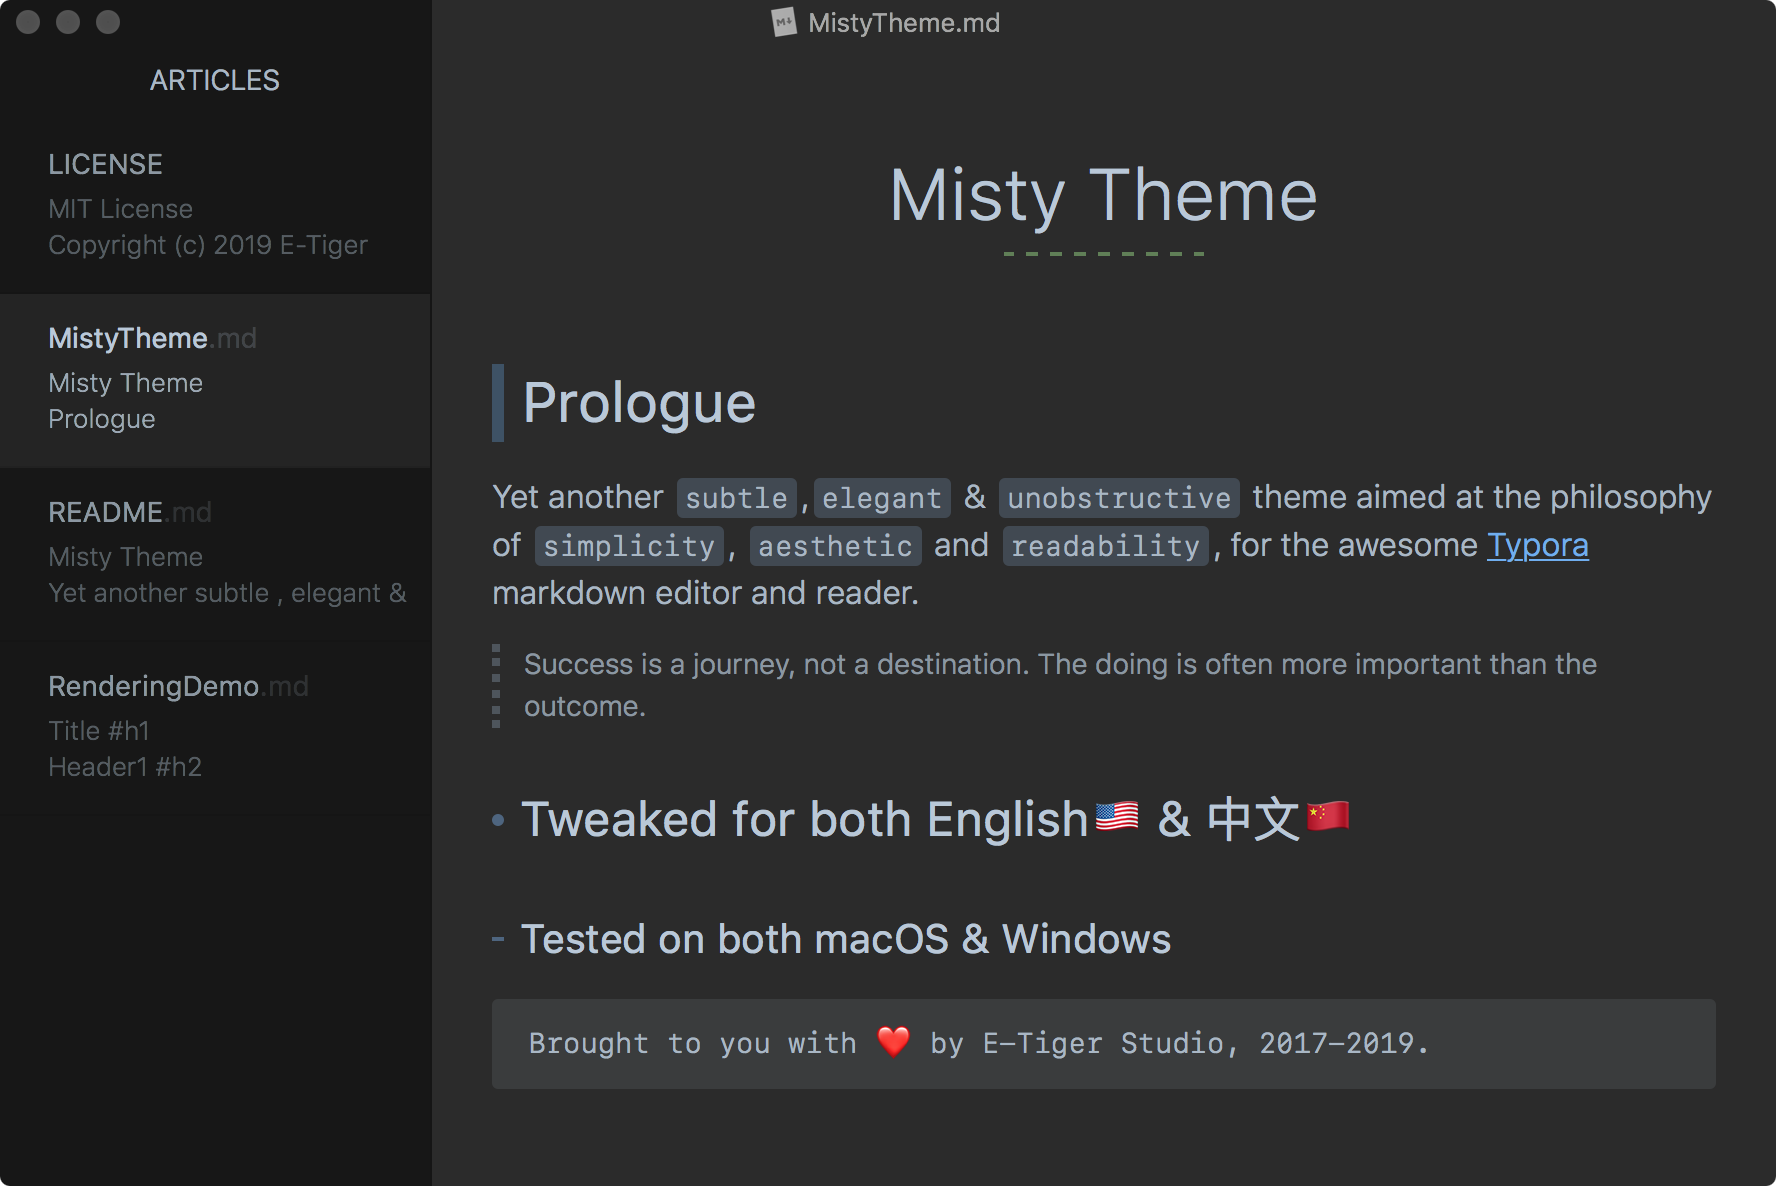
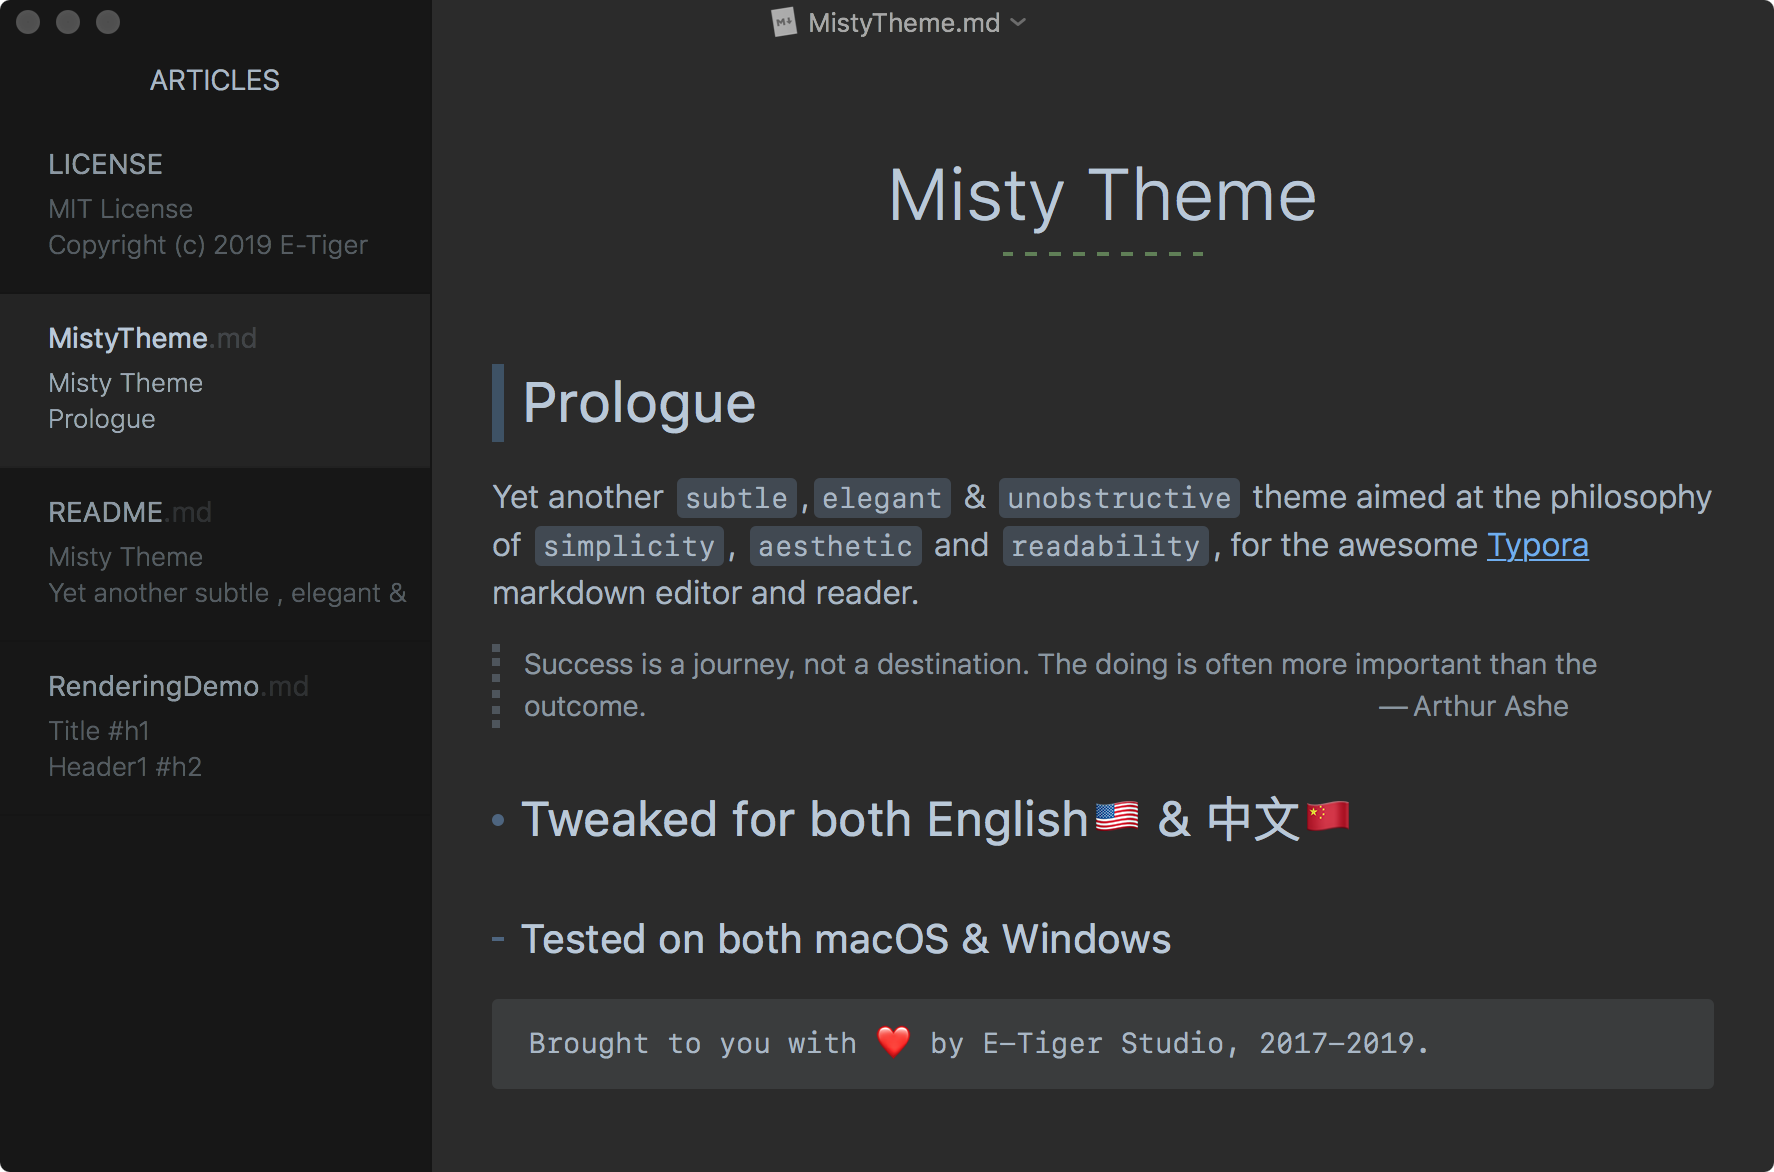
chore: add attribution to the quote of Arthur Ashe.

diff --git a/README.md b/README.md
@@ -11,13 +11,13 @@ Ships with **Light** 🌞 & **Dark** 🌑 color schemes. [Download](https://gith
 Introduction text in Light:
 
 <p align="center">
-  <img src="https://github.com/etigerstudio/typora-misty-theme/raw/master/misty-light-demo.png" alt="misty-light-demo" width="888"/>
+  <img src="https://github.com/etigerstudio/typora-misty-theme/raw/master/misty-light-demo.png" alt="misty-light-demo" width="887"/>
 </p>
 
 Introduction text in Dark:
 
 <p align="center">
-  <img src="https://github.com/etigerstudio/typora-misty-theme/raw/master/misty-dark-demo.png" alt="misty-dark-demo" width="888"/>
+  <img src="https://github.com/etigerstudio/typora-misty-theme/raw/master/misty-dark-demo.png" alt="misty-dark-demo" width="887"/>
 </p>
 
 Major styles in Light:

diff --git a/MistyTheme.md b/MistyTheme.md
@@ -4,7 +4,7 @@
 
 Yet another `subtle`,`elegant` & `unobstructive` theme aimed at the philosophy of `simplicity`, `aesthetic` and `readability`, for the awesome [Typora](https://typora.io/) markdown editor and reader.
 
-> Success is a journey, not a destination. The doing is often more important than the outcome.
+> Success is a journey, not a destination. The doing is often more important than the outcome.												 — Arthur Ashe
 
 ### Tweaked for both English🇺🇸 & 中文🇨🇳
 

diff --git a/RenderingDemo.md b/RenderingDemo.md
@@ -26,7 +26,7 @@ func main() {
 
 ## Qoutes
 
-> Success is a journey, not a destination. The doing is often more important than the outcome.
+> Success is a journey, not a destination. The doing is often more important than the outcome.												 — Arthur Ashe
 
 ## Task List
 
